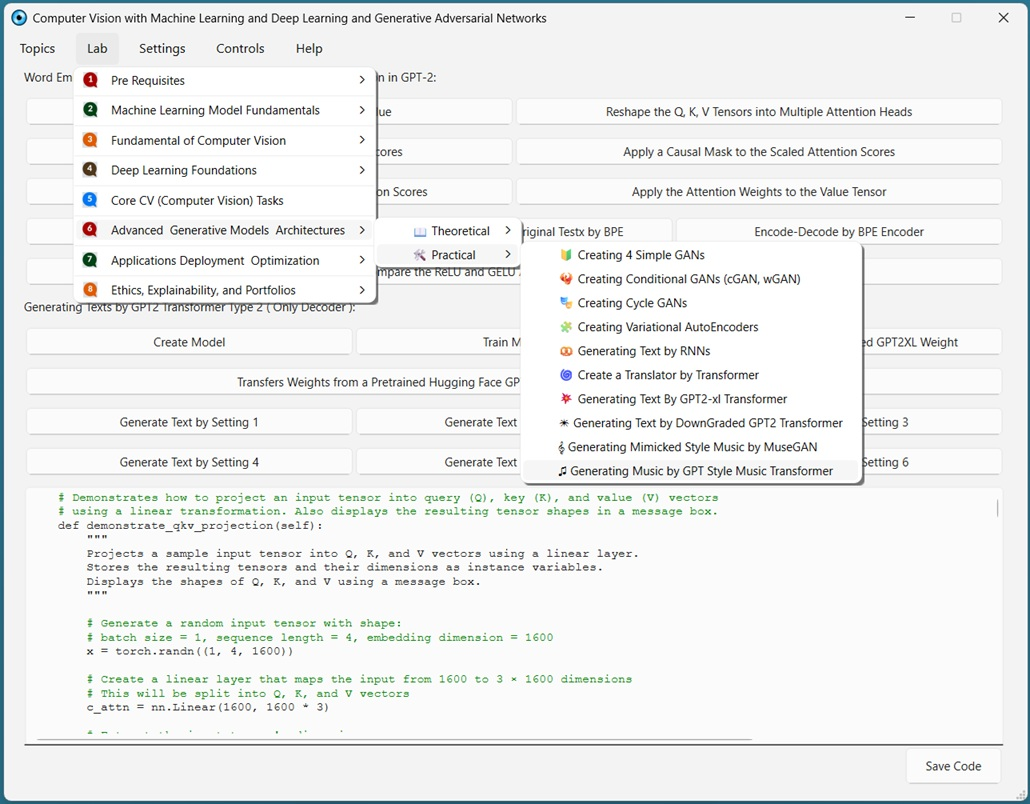
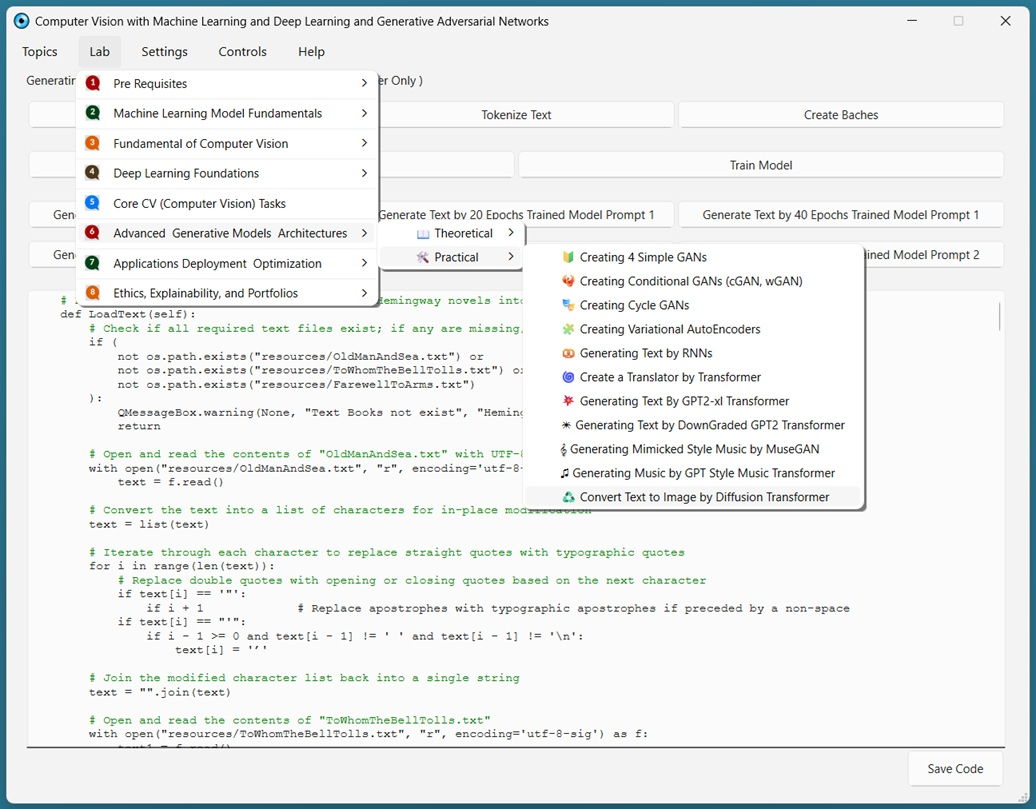
UI for Converting Text to Image by Diffusion Transformer added.

diff --git a/utilities/Ui_MainWindow.py b/utilities/Ui_MainWindow.py
@@ -6,7 +6,7 @@ except:
     print("You Should Install PyQt6 Library!")
 
 class UI_MainWindow(object):
-   
+    
     def setupUi(self, MainWindow):
         MainWindow.setObjectName("MainWindow")
         MainWindow.resize(1024, 768)
@@ -2136,6 +2136,51 @@ class UI_MainWindow(object):
         self.pushButton_GnerateMusicCase4_GeneratingMusicByGPTStyleMusicTransformer.setGeometry(QtCore.QRect(500, 230, 491, 31))
         self.pushButton_GnerateMusicCase4_GeneratingMusicByGPTStyleMusicTransformer.setObjectName("pushButton_GnerateMusicCase4_GeneratingMusicByGPTStyleMusicTransformer")
         self.pages.addWidget(self.page_GeneratingMusicByGPTStyleMusicTransformer)
+        self.page_TextToImageByDiffusion = QtWidgets.QWidget()
+        self.page_TextToImageByDiffusion.setObjectName("page_TextToImageByDiffusion")
+        self.label_TextToImageByDiffusion = QtWidgets.QLabel(parent=self.page_TextToImageByDiffusion)
+        self.label_TextToImageByDiffusion.setGeometry(QtCore.QRect(10, 0, 981, 21))
+        self.label_TextToImageByDiffusion.setObjectName("label_TextToImageByDiffusion")
+        self.textBrowser_TextToImageByDiffusion = QtWidgets.QTextBrowser(parent=self.page_TextToImageByDiffusion)
+        self.textBrowser_TextToImageByDiffusion.setGeometry(QtCore.QRect(10, 280, 981, 401))
+        self.textBrowser_TextToImageByDiffusion.setObjectName("textBrowser_TextToImageByDiffusion")
+        self.pushButton_SaveCode_TextToImageByDiffusion = QtWidgets.QPushButton(parent=self.page_TextToImageByDiffusion)
+        self.pushButton_SaveCode_TextToImageByDiffusion.setGeometry(QtCore.QRect(890, 680, 100, 40))
+        self.pushButton_SaveCode_TextToImageByDiffusion.setObjectName("pushButton_SaveCode_TextToImageByDiffusion")
+        self.pushButton_LoadDataset_TextToImageByDiffusion = QtWidgets.QPushButton(parent=self.page_TextToImageByDiffusion)
+        self.pushButton_LoadDataset_TextToImageByDiffusion.setGeometry(QtCore.QRect(340, 30, 321, 31))
+        self.pushButton_LoadDataset_TextToImageByDiffusion.setObjectName("pushButton_LoadDataset_TextToImageByDiffusion")
+        self.pushButton_DownloadDataset_TextToImageByDiffusion = QtWidgets.QPushButton(parent=self.page_TextToImageByDiffusion)
+        self.pushButton_DownloadDataset_TextToImageByDiffusion.setGeometry(QtCore.QRect(10, 30, 331, 31))
+        self.pushButton_DownloadDataset_TextToImageByDiffusion.setObjectName("pushButton_DownloadDataset_TextToImageByDiffusion")
+        self.pushButton_VisualizeForwardDiffusionProcess_TextToImageByDiffusion = QtWidgets.QPushButton(parent=self.page_TextToImageByDiffusion)
+        self.pushButton_VisualizeForwardDiffusionProcess_TextToImageByDiffusion.setGeometry(QtCore.QRect(660, 30, 331, 31))
+        self.pushButton_VisualizeForwardDiffusionProcess_TextToImageByDiffusion.setObjectName("pushButton_VisualizeForwardDiffusionProcess_TextToImageByDiffusion")
+        self.pushButton_CreateModel_TextToImageByDiffusion = QtWidgets.QPushButton(parent=self.page_TextToImageByDiffusion)
+        self.pushButton_CreateModel_TextToImageByDiffusion.setGeometry(QtCore.QRect(10, 70, 491, 31))
+        self.pushButton_CreateModel_TextToImageByDiffusion.setObjectName("pushButton_CreateModel_TextToImageByDiffusion")
+        self.pushButton_TrainModel_TextToImageByDiffusion = QtWidgets.QPushButton(parent=self.page_TextToImageByDiffusion)
+        self.pushButton_TrainModel_TextToImageByDiffusion.setGeometry(QtCore.QRect(500, 70, 491, 31))
+        self.pushButton_TrainModel_TextToImageByDiffusion.setObjectName("pushButton_TrainModel_TextToImageByDiffusion")
+        self.pushButton_GenerateImageCase1_TextToImageByDiffusion = QtWidgets.QPushButton(parent=self.page_TextToImageByDiffusion)
+        self.pushButton_GenerateImageCase1_TextToImageByDiffusion.setGeometry(QtCore.QRect(10, 110, 331, 31))
+        self.pushButton_GenerateImageCase1_TextToImageByDiffusion.setObjectName("pushButton_GenerateImageCase1_TextToImageByDiffusion")
+        self.pushButton_GenerateImageCase2_TextToImageByDiffusion = QtWidgets.QPushButton(parent=self.page_TextToImageByDiffusion)
+        self.pushButton_GenerateImageCase2_TextToImageByDiffusion.setGeometry(QtCore.QRect(340, 110, 321, 31))
+        self.pushButton_GenerateImageCase2_TextToImageByDiffusion.setObjectName("pushButton_GenerateImageCase2_TextToImageByDiffusion")
+        self.pushButton_GenerateImageCase3_TextToImageByDiffusion = QtWidgets.QPushButton(parent=self.page_TextToImageByDiffusion)
+        self.pushButton_GenerateImageCase3_TextToImageByDiffusion.setGeometry(QtCore.QRect(660, 110, 331, 31))
+        self.pushButton_GenerateImageCase3_TextToImageByDiffusion.setObjectName("pushButton_GenerateImageCase3_TextToImageByDiffusion")
+        self.pushButton_ConvertTextToImage_TextToImageByDiffusion = QtWidgets.QPushButton(parent=self.page_TextToImageByDiffusion)
+        self.pushButton_ConvertTextToImage_TextToImageByDiffusion.setGeometry(QtCore.QRect(340, 240, 321, 31))
+        self.pushButton_ConvertTextToImage_TextToImageByDiffusion.setObjectName("pushButton_ConvertTextToImage_TextToImageByDiffusion")
+        self.plainTextEdit_TextToImageByDiffusion = QtWidgets.QPlainTextEdit(parent=self.page_TextToImageByDiffusion)
+        self.plainTextEdit_TextToImageByDiffusion.setGeometry(QtCore.QRect(13, 180, 971, 51))
+        self.plainTextEdit_TextToImageByDiffusion.setObjectName("plainTextEdit_TextToImageByDiffusion")
+        self.label_TextToImage_TextToImageByDiffusion = QtWidgets.QLabel(parent=self.page_TextToImageByDiffusion)
+        self.label_TextToImage_TextToImageByDiffusion.setGeometry(QtCore.QRect(10, 150, 981, 21))
+        self.label_TextToImage_TextToImageByDiffusion.setObjectName("label_TextToImage_TextToImageByDiffusion")
+        self.pages.addWidget(self.page_TextToImageByDiffusion)
         self.page_AboutAuthorDeveloper = QtWidgets.QWidget()
         self.page_AboutAuthorDeveloper.setObjectName("page_AboutAuthorDeveloper")
         self.textBrowser_AboutAuthorDeveloper = QtWidgets.QTextBrowser(parent=self.page_AboutAuthorDeveloper)
@@ -2340,7 +2385,7 @@ class UI_MainWindow(object):
 
         self.retranslateUi(MainWindow)
         QtCore.QMetaObject.connectSlotsByName(MainWindow)
-    
+
     def retranslateUi(self, MainWindow):
         _translate = QtCore.QCoreApplication.translate
         MainWindow.setWindowTitle(_translate("MainWindow", "Computer Vision with Machine Learning and Deep Learning and Generative Adversarial Networks"))
@@ -2902,6 +2947,18 @@ class UI_MainWindow(object):
         self.pushButton_GnerateMusicCase2_GeneratingMusicByGPTStyleMusicTransformer.setText(_translate("MainWindow", "Gnerate Music Case 2"))
         self.pushButton_GnerateMusicCase3_GeneratingMusicByGPTStyleMusicTransformer.setText(_translate("MainWindow", "Gnerate Music Case 3"))
         self.pushButton_GnerateMusicCase4_GeneratingMusicByGPTStyleMusicTransformer.setText(_translate("MainWindow", "Gnerate Music Case 4"))
+        self.label_TextToImageByDiffusion.setText(_translate("MainWindow", "Denoising U-Net Diffusion Model. Forward | Reverse Diffusion Process:"))
+        self.pushButton_SaveCode_TextToImageByDiffusion.setText(_translate("MainWindow", "Save Code"))
+        self.pushButton_LoadDataset_TextToImageByDiffusion.setText(_translate("MainWindow", "Load Dataset"))
+        self.pushButton_DownloadDataset_TextToImageByDiffusion.setText(_translate("MainWindow", "Download Dataset"))
+        self.pushButton_VisualizeForwardDiffusionProcess_TextToImageByDiffusion.setText(_translate("MainWindow", "Visualize Forward Diffusion Process"))
+        self.pushButton_CreateModel_TextToImageByDiffusion.setText(_translate("MainWindow", "Create Model"))
+        self.pushButton_TrainModel_TextToImageByDiffusion.setText(_translate("MainWindow", "Train Model"))
+        self.pushButton_GenerateImageCase1_TextToImageByDiffusion.setText(_translate("MainWindow", "Generate Image Case1"))
+        self.pushButton_GenerateImageCase2_TextToImageByDiffusion.setText(_translate("MainWindow", "Generate Image Case2"))
+        self.pushButton_GenerateImageCase3_TextToImageByDiffusion.setText(_translate("MainWindow", "Visualize Reverse Diffusion Process"))
+        self.pushButton_ConvertTextToImage_TextToImageByDiffusion.setText(_translate("MainWindow", "Convert Above Text to an Image"))
+        self.label_TextToImage_TextToImageByDiffusion.setText(_translate("MainWindow", "Converting Text to Image by Dall-E-2 OpenAI API Diffusion Transformer: 1) Create account on OpenAI 2) Get secret key token 3) Conect to the api and send a text as a prompt."))
         self.menuTopics.setTitle(_translate("MainWindow", "Topics"))
         self.menuSettings.setTitle(_translate("MainWindow", "Settings"))
         self.menuControls.setTitle(_translate("MainWindow", "Controls"))

diff --git a/app.py b/app.py
@@ -21,6 +21,7 @@ from utilities.GeneratingTextByGPT2xlTransformer import GeneratingTextByGPT2xlTr
 from utilities.GeneratingTextByDownGradedGPT2Transformer import GeneratingTextByDownGradedGPT2Transformer
 from utilities.GeneratingMimickedStyleMusicByMuseGAN import GeneratingMimickedStyleMusicByMuseGAN
 from utilities.GeneratingMusicByGPTStyleMusicTransformer import GeneratingMusicByGPTStyleMusicTransformer
+from utilities.TextToImageByDiffusion import TextToImageByDiffusion
 from utilities.ScrollableMessageBox import show_scrollable_message
 import os
 from os import path, listdir
@@ -119,6 +120,7 @@ class MainWindow(QMainWindow):
         self.action_GeneratingTextByDownGradedGPT2Transformer.setText(_translate("MainWindow","✴ Generating Text by DownGraded GPT2 Transformer"))
         self.action_GeneratingMimickedStyleMusicByMuseGAN.setText(_translate("MainWindow","𝄞 Generating Mimicked Style Music by MuseGAN")) 
         self.action_GeneratingMusicByGPTStyleMusicTransformer.setText(_translate("MainWindow","♫ Generating Music by GPT Style Music Transformer"))
+        self.action_TextToImageByDiffusion.setText(_translate("MainWindow","♻ Convert Text to Image by Diffusion Transformer"))
 
     def PrepareCancelTraining(self):
         self.CreateSimpleCNNHandler.CancelTraining()
@@ -1405,6 +1407,7 @@ class MainWindow(QMainWindow):
         self.action_TheoreticalGANsMainSource.triggered.connect(partial(self.changePDFPage,22))
         self.ui.action_Core_CV_Computer_Vision_Tasks.triggered.connect(partial(self.changePDFPage,23))
 
+        self.action_TextToImageByDiffusion.triggered.connect(self.changePage)
         self.ui.action_AboutTool.triggered.connect(self.changePage)
         self.ui.action_AboutAuthorDeveloper.triggered.connect(self.changePage)
         self.action_PythonProgramming.triggered.connect(self.changePage)
@@ -1446,6 +1449,7 @@ class MainWindow(QMainWindow):
         self.ui.pushButton_UploadStyles_NeuralStyleTransfer.clicked.connect(self.Upload_Files)
         self.ui.action_UploadStyleTransferModels.triggered.connect(self.Upload_Files)
 
+        self.ui.pushButton_SaveCode_TextToImageByDiffusion.clicked.connect(partial(self.SaveCode,self.ui.textBrowser_TextToImageByDiffusion))
         self.ui.pushButton_SaveCode_GeneratingMusicByGPTStyleMusicTransformer.clicked.connect(partial(self.SaveCode,self.ui.textBrowser_GeneratingMusicByGPTStyleMusicTransformer))
         self.ui.pushButton_SaveCode_GeneratingMimickedStyleMusicByMuseGAN.clicked.connect(partial(self.SaveCode,self.ui.textBrowser_GeneratingMimickedStyleMusicByMuseGAN))
         self.ui.pushButton_SaveCode_TransferLearning.clicked.connect(partial(self.SaveCode,self.ui.textBrowser_TransferLearning))
@@ -1574,6 +1578,7 @@ class MainWindow(QMainWindow):
         self.DownGradedGPT2Handler = GeneratingTextByDownGradedGPT2Transformer()
         self.MuseGANHelper = GeneratingMimickedStyleMusicByMuseGAN()
         self.GPTStyleMusicTransformerHandler = GeneratingMusicByGPTStyleMusicTransformer()
+        self.DiffusionHandler = TextToImageByDiffusion()
 
         self.ColorChannelChangeCheckBoxes = [
             self.ui.checkBox_BlueChannel,
@@ -1757,6 +1762,9 @@ class MainWindow(QMainWindow):
         self.action_GeneratingMusicByGPTStyleMusicTransformer = QtGui.QAction(parent=self)
         self.action_GeneratingMusicByGPTStyleMusicTransformer.setObjectName("action_GeneratingMusicByGPTStyleMusicTransformer")
         self.menu_PracticalGANs.addAction(self.action_GeneratingMusicByGPTStyleMusicTransformer)
+        self.action_TextToImageByDiffusion = QtGui.QAction(parent=self)
+        self.action_TextToImageByDiffusion.setObjectName("action_TextToImageByDiffusion")
+        self.menu_PracticalGANs.addAction(self.action_TextToImageByDiffusion)
 
         self.menu_TheoreticalGANsDeploymentOptimization = QMenu(parent=self)
         self.menu_TheoreticalGANsDeploymentOptimization.setObjectName("menu_TheoreticalGANsDeploymentOptimization")
@@ -1808,6 +1816,7 @@ class MainWindow(QMainWindow):
         self.FillCode(GeneratingTextByDownGradedGPT2Transformer,self.ui.textBrowser_GeneratingTextByDownGradedGPT2Transformer, 46)
         self.FillCode(GeneratingMimickedStyleMusicByMuseGAN,self.ui.textBrowser_GeneratingMimickedStyleMusicByMuseGAN, 36)
         self.FillCode(GeneratingMusicByGPTStyleMusicTransformer,self.ui.textBrowser_GeneratingMusicByGPTStyleMusicTransformer, 41)
+        self.FillCode(TextToImageByDiffusion,self.ui.textBrowser_TextToImageByDiffusion, 41)
 
 def LunchApp():
     import sys

diff --git a/utilities/TextToImageByDiffusion.py b/utilities/TextToImageByDiffusion.py
@@ -1,0 +1,116 @@
+import io
+import sys
+import contextlib
+import os
+from os.path import isfile, join
+import time
+import shutil
+import random
+import tkinter as tk
+import threading
+import math
+from copy import deepcopy
+from collections import Counter
+import json
+import pickle
+import regex as re
+from functools import lru_cache
+from utilities.DeepLearningFoundationOperations import DownloadLogPopup, LogEmitter
+from utilities.DLbyPyTorch import EarlyStop, DLbyPyTorch, PopupStream
+from utilities.bpe import get_encoder, BPETokenizer
+from utilities.processor import (_control_preprocess,_note_preprocess,_divide_note,_make_time_sift_events,_snote2events,encode_midi, decode_midi)
+from utilities.ScrollableMessageBox import show_scrollable_message
+try:
+    os.environ["KMP_DUPLICATE_LIB_OK"]="TRUE"
+    os.environ['TF_CPP_MIN_LOG_LEVEL'] = '2'
+    os.environ['TF_ENABLE_ONEDNN_OPTS'] = '1' # '0' or '1' 1 activate intel speed support
+    # print(tf.config.list_physical_devices('GPU'))
+    import torch
+    import torch.nn as nn
+    import torch.nn.functional as F
+    from torch.utils.data import DataLoader, Dataset
+    import torchvision
+    import torchvision.transforms as T
+    from torchvision.utils import make_grid, save_image
+    from torchvision.datasets import ImageFolder
+except:
+    print("Check instalation of torch for Compatibility with OS and HardWare!")
+try:
+    import numpy as np
+except:
+    print("You Should Install numpy Library")
+try:
+    import PIL
+    from PIL import Image
+except:
+    print("You Should Install pillow Library")
+try:
+    import pandas as pd
+except:
+    print("You Should Install pandas Library")
+try:
+    from tqdm import tqdm
+except:
+    print("You Should Install tqdm Library")
+try:
+    from transformers import XLMTokenizer
+except:
+    print("You Should Install transformers Library")
+try:
+    from contextlib import nullcontext
+except:
+    print("You Should Install contextlib Library")
+try:
+    import cv2
+    from cv2_enumerate_cameras import enumerate_cameras
+except:
+    print("You Should Install OpenCV-Python and cv2_enumerate_cameras Libraries")
+try:
+    import matplotlib.pyplot as plt
+    from matplotlib.backends.backend_qt5agg import FigureCanvasQTAgg as FigureCanvas
+    from matplotlib.figure import Figure
+except:
+    print("You Should Install matplotlib Library!")
+try:
+    import albumentations
+    from albumentations.pytorch import ToTensorV2
+except:
+    print("You Should Install albumentations Library with below flag to avoid installing opencv headless causing confilict.\npip install albumentations --no-deps\nthen install one of its dependencies:\npip install albucore==0.0.24  --no-deps")
+try:
+    from music21 import note, stream, duration, tempo
+except:
+     print("You Should Install music21 Library!")
+try:
+    import pretty_midi
+except:
+     print("You Should Install pretty_midi Library!")
+try: 
+    from PyQt6.QtMultimedia import QMediaPlayer, QAudioOutput
+    from PyQt6.QtGui import  QTextCursor   
+    from PyQt6.QtCore import QObject, pyqtSignal, QThread, Qt, QUrl
+    from PyQt6.QtWidgets import QMessageBox,QTextEdit, QWidget, QVBoxLayout, QPushButton, QLabel, QDialog, QTextEdit,QScrollArea,QMainWindow,QApplication
+except:
+    print("You Should Install PyQt6 Library!")
+
+class TextToImageByDiffusion(QObject):
+
+    # Constructor method to initialize the class instance
+    # :param parent: Optional parent object for QObject hierarchy
+    def __init__(self, parent=None):     
+        # Call the base class constructor to ensure proper QObject initialization
+        super().__init__()
+
+        # Set a fixed random seed for reproducibility of results across different runs
+        torch.manual_seed(0)
+
+        # Instantiate a log emitter to asynchronously send log messages to the UI
+        self.log_emitter = LogEmitter()
+
+        # Create a popup window to display logs during dataset loading, training, or generation
+        self.DownloadLogPopup = DownloadLogPopup(
+            # Pass the log emitter to the popup for real-time log updates
+            self.log_emitter
+        )
+
+        # Determine the computation device: use GPU if available, otherwise fallback to CPU
+        self.device = "cuda" if torch.cuda.is_available() else "cpu"
